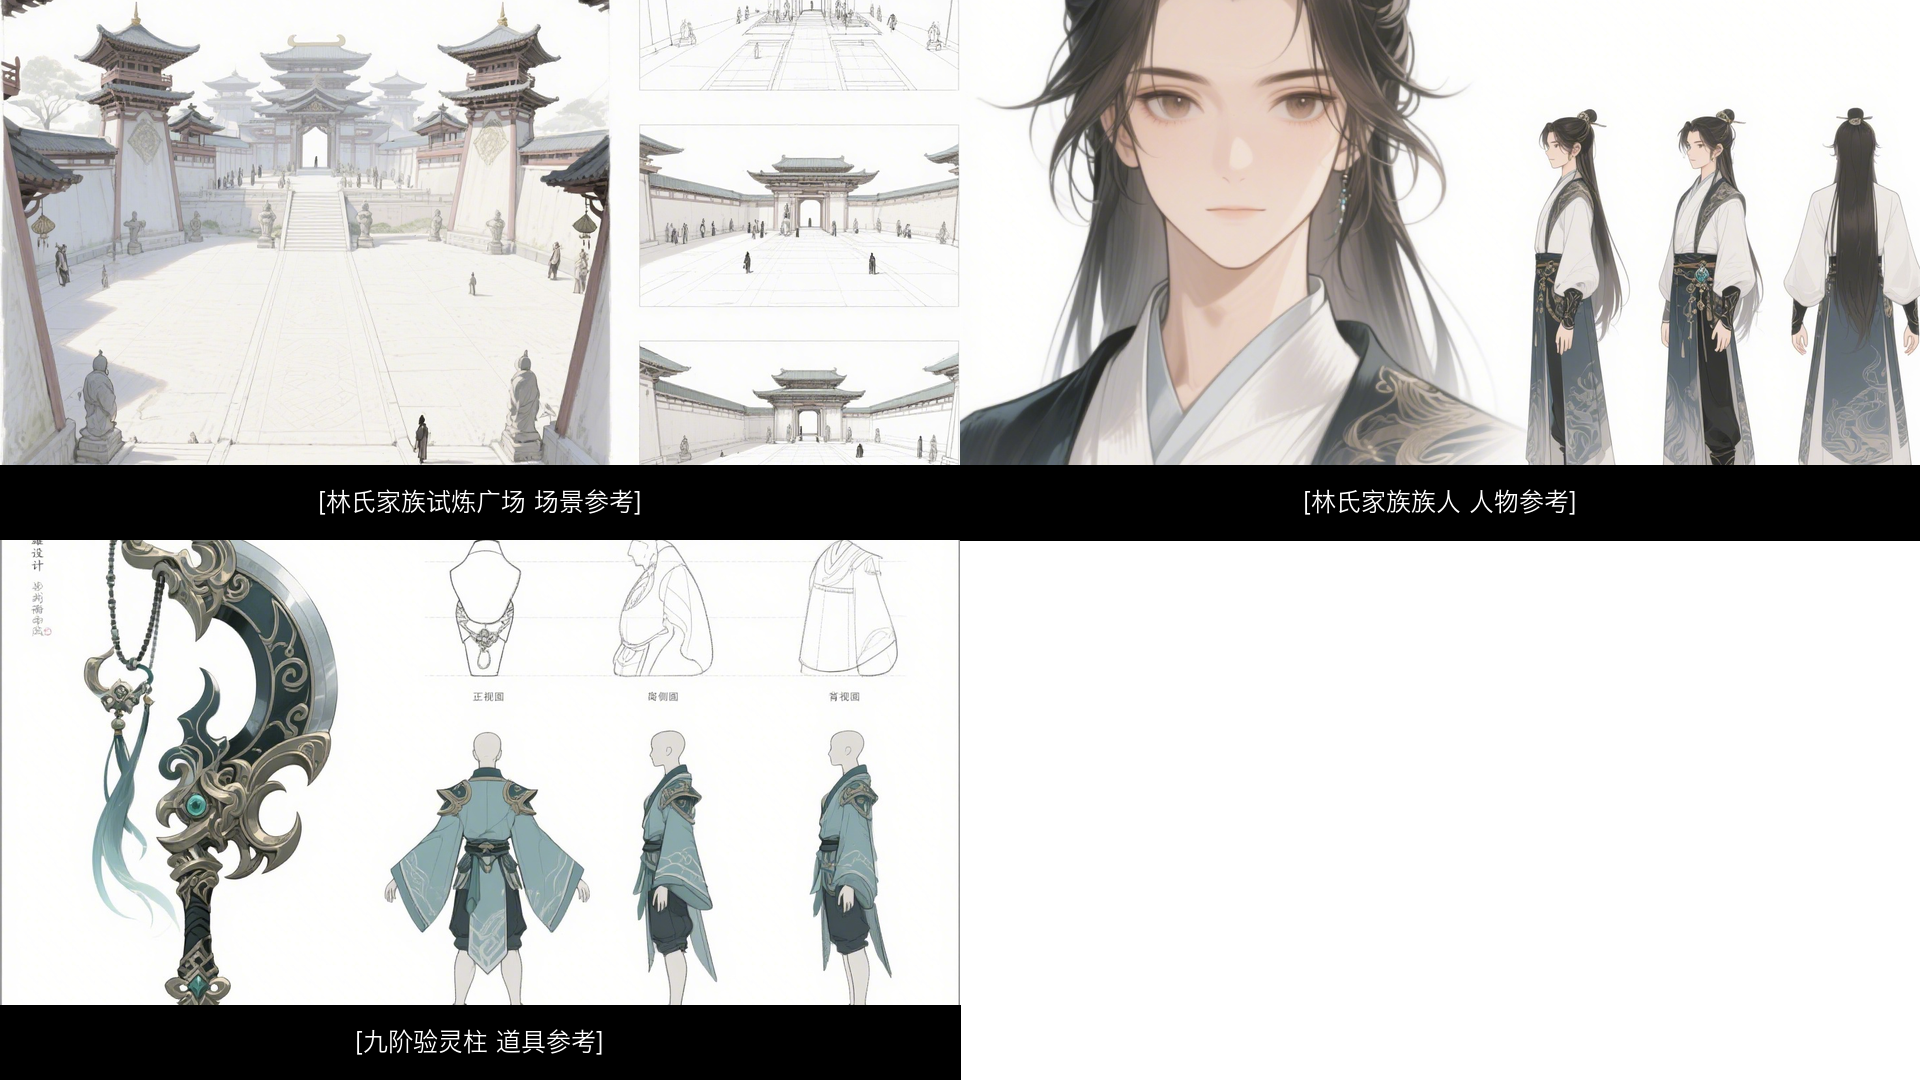
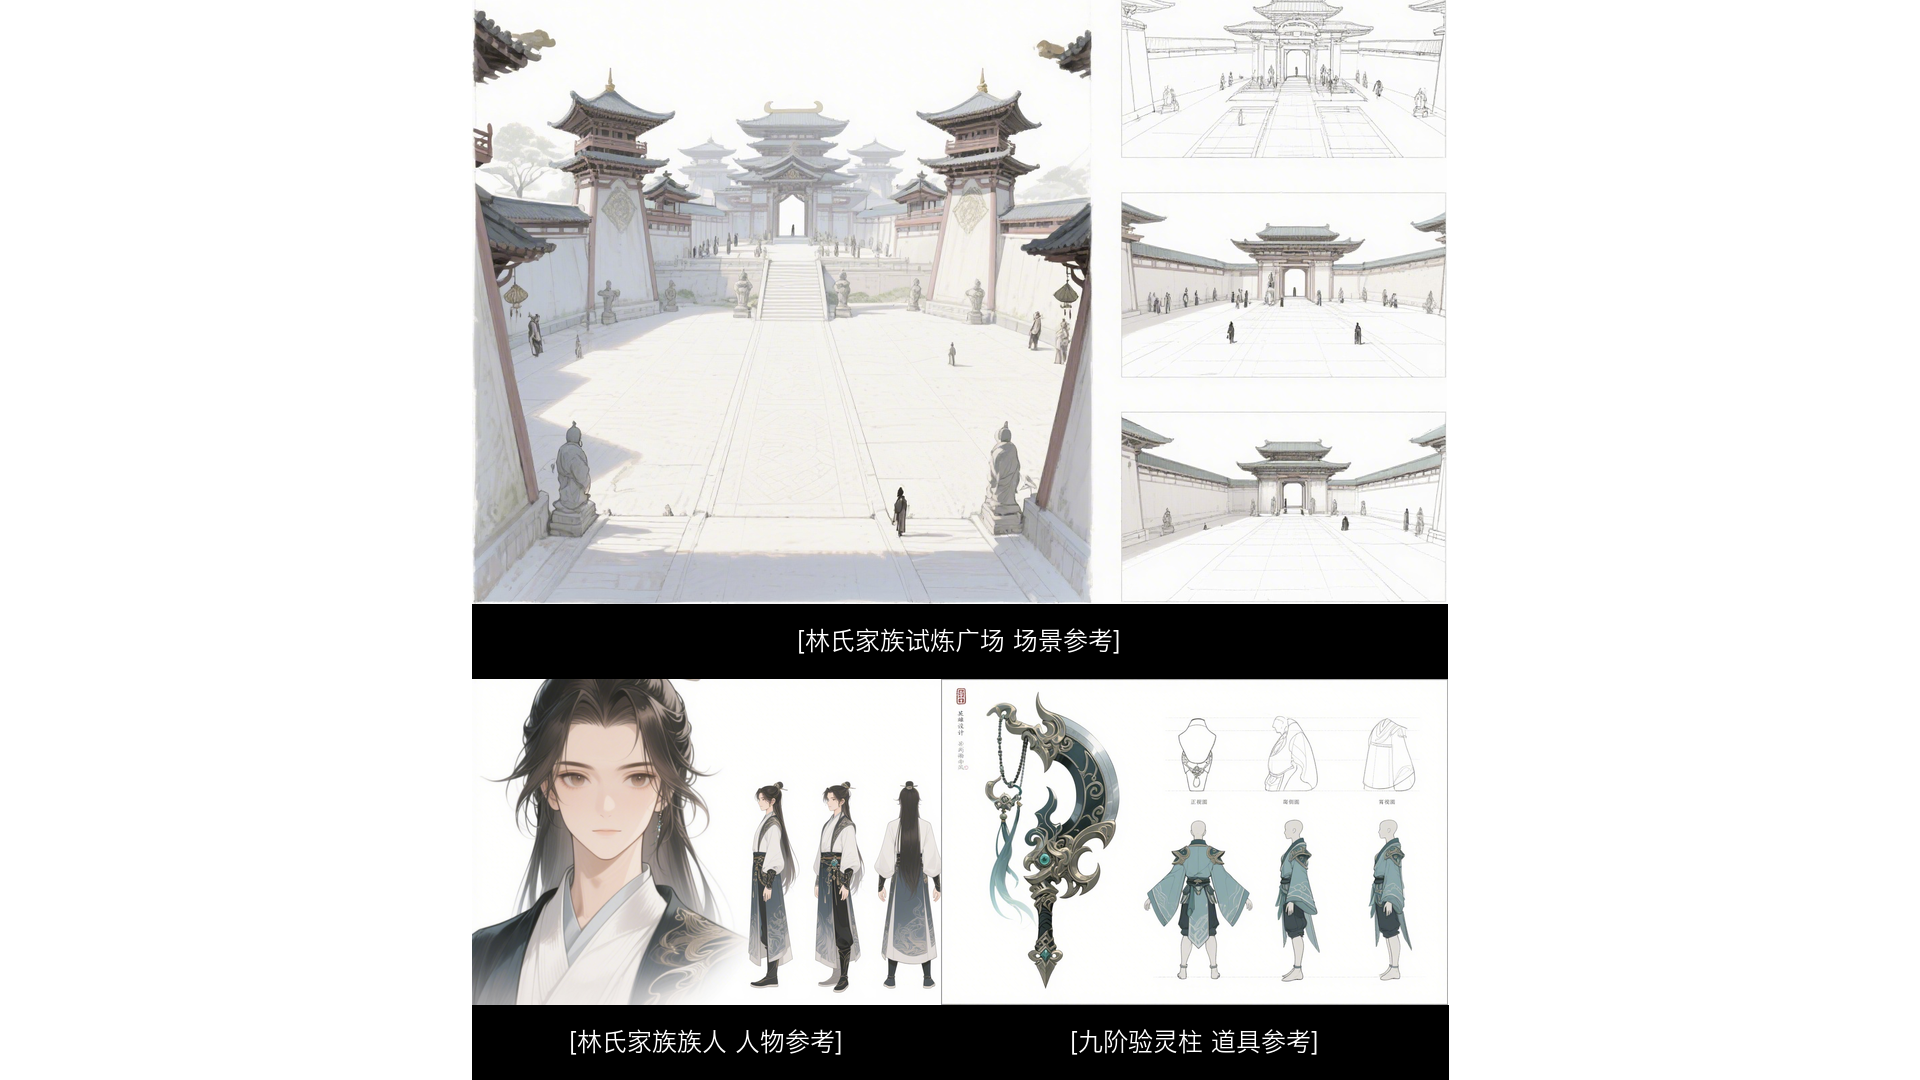
解决 资产图拼接的 过于扩充而显示不全问题

diff --git a/pipeline/shot_reference_boards.py b/pipeline/shot_reference_boards.py
@@ -28,7 +28,7 @@ LABEL_BAR_MAX_HEIGHT_PX = 104
 LABEL_SIDE_PADDING_PX = 24
 LABEL_FONT_MIN_SIZE = 18
 LABEL_FONT_DIVISOR = 3
-DUAL_ASSET_GAP_PX = 24
+DUAL_ASSET_GAP_PX = 0
 BORDER_ACTIVITY_STD_THRESHOLD = 14.0
 TRIM_BACKOFF_PX = 2
 MAX_VERTICAL_TRIM_RATIO = 0.12
@@ -134,48 +134,106 @@ def build_target_boxes(layout_template: str) -> list[dict[str, int]]:
     return boxes
 
 
-def build_dual_asset_boxes(ordered_assets: list[dict[str, str]]) -> list[dict[str, int]]:
-    if len(ordered_assets) != 2:
-        raise ValueError(f"Dual-asset layout expects exactly 2 assets, got {len(ordered_assets)}")
-
-    label_height = resolve_label_height(CANVAS_HEIGHT)
-    max_image_height = max(1, CANVAS_HEIGHT - label_height)
-    aspects: list[float] = []
-    for asset in ordered_assets:
-        trimmed_width, trimmed_height = load_trimmed_image(asset["source_image_path"]).size
-        aspects.append(trimmed_width / trimmed_height)
-
-    available_width = CANVAS_WIDTH - 2 * OUTER_PADDING_PX - DUAL_ASSET_GAP_PX
-    common_image_height = min(
-        max_image_height,
-        max(1, int(available_width / sum(aspects))),
+def resolve_adaptive_row_counts(layout_template: str, asset_count: int) -> list[int]:
+    if layout_template == "grid_1x1":
+        return [1]
+    if layout_template == "grid_2x1":
+        return [2]
+    if layout_template == "grid_2x2":
+        if asset_count == 3:
+            return [1, 2]
+        if asset_count == 4:
+            return [2, 2]
+    if layout_template == "grid_3x2":
+        if asset_count == 5:
+            return [2, 3]
+        if asset_count == 6:
+            return [3, 3]
+    raise ValueError(
+        f"Unsupported adaptive row layout for template {layout_template} with asset_count {asset_count}"
     )
-    widths = [max(1, int(round(aspect * common_image_height))) for aspect in aspects]
-    row_width = sum(widths) + DUAL_ASSET_GAP_PX
-    if row_width > CANVAS_WIDTH:
-        overflow = row_width - CANVAS_WIDTH
-        widths[-1] = max(1, widths[-1] - overflow)
-        row_width = sum(widths) + DUAL_ASSET_GAP_PX
 
-    box_height = common_image_height + label_height
-    start_x = max(0, (CANVAS_WIDTH - row_width) // 2)
-    start_y = max(0, (CANVAS_HEIGHT - box_height) // 2)
 
-    boxes: list[dict[str, int]] = []
-    current_x = start_x
-    for index, width in enumerate(widths, start=1):
-        boxes.append(
+def build_adaptive_layout_boxes(
+    ordered_assets: list[dict[str, str]],
+    *,
+    layout_template: str,
+) -> list[dict[str, int]]:
+    row_counts = resolve_adaptive_row_counts(layout_template, len(ordered_assets))
+    label_height = resolve_label_height(max(1, CANVAS_HEIGHT // len(row_counts)))
+    row_gap = DUAL_ASSET_GAP_PX
+    available_width = max(1, CANVAS_WIDTH - 2 * OUTER_PADDING_PX)
+    available_image_height = max(
+        1,
+        CANVAS_HEIGHT - 2 * OUTER_PADDING_PX - (len(row_counts) - 1) * row_gap - len(row_counts) * label_height,
+    )
+
+    cursor = 0
+    row_specs: list[dict[str, object]] = []
+    natural_image_height_sum = 0.0
+    for row_index, row_count in enumerate(row_counts, start=1):
+        row_assets = ordered_assets[cursor : cursor + row_count]
+        cursor += row_count
+        aspects: list[float] = []
+        for asset in row_assets:
+            trimmed_width, trimmed_height = load_trimmed_image(asset["source_image_path"]).size
+            aspects.append(trimmed_width / trimmed_height)
+        row_available_width = max(1, available_width - (row_count - 1) * row_gap)
+        natural_image_height = row_available_width / sum(aspects)
+        natural_image_height_sum += natural_image_height
+        row_specs.append(
             {
-                "slot_index": index,
-                "row": 1,
-                "col": index,
-                "x": current_x,
-                "y": start_y,
-                "width": width,
-                "height": box_height,
+                "row_index": row_index,
+                "row_count": row_count,
+                "aspects": aspects,
+                "natural_image_height": natural_image_height,
             }
         )
-        current_x += width + DUAL_ASSET_GAP_PX
+
+    scale = min(1.0, available_image_height / natural_image_height_sum) if natural_image_height_sum > 0 else 1.0
+
+    boxes: list[dict[str, int]] = []
+    realized_rows: list[dict[str, object]] = []
+    for row_spec in row_specs:
+        image_height = max(1, int(round(float(row_spec["natural_image_height"]) * scale)))
+        widths = [
+            max(1, int(round(aspect * image_height)))
+            for aspect in row_spec["aspects"]  # type: ignore[index]
+        ]
+        row_width = sum(widths) + (int(row_spec["row_count"]) - 1) * row_gap
+        realized_rows.append(
+            {
+                "row_index": row_spec["row_index"],
+                "widths": widths,
+                "image_height": image_height,
+                "row_width": row_width,
+            }
+        )
+
+    total_height = sum(int(row["image_height"]) + label_height for row in realized_rows) + row_gap * (
+        len(realized_rows) - 1
+    )
+    current_y = max(OUTER_PADDING_PX, (CANVAS_HEIGHT - total_height) // 2)
+    slot_index = 1
+    for row in realized_rows:
+        row_box_height = int(row["image_height"]) + label_height
+        current_x = max(OUTER_PADDING_PX, (CANVAS_WIDTH - int(row["row_width"])) // 2)
+        for col_index, width in enumerate(row["widths"], start=1):
+            boxes.append(
+                {
+                    "slot_index": slot_index,
+                    "row": int(row["row_index"]),
+                    "col": col_index,
+                    "x": current_x,
+                    "y": current_y,
+                    "width": width,
+                    "height": row_box_height,
+                    "label_height": label_height,
+                }
+            )
+            current_x += width + row_gap
+            slot_index += 1
+        current_y += row_box_height + row_gap
     return boxes
 
 
@@ -352,8 +410,8 @@ def resolve_label_height(box_height: int) -> int:
     )
 
 
-def split_slot_box(box: dict[str, int]) -> tuple[dict[str, int], dict[str, int]]:
-    label_height = resolve_label_height(int(box["height"]))
+def split_slot_box(box: dict[str, int], label_height: int | None = None) -> tuple[dict[str, int], dict[str, int]]:
+    label_height = label_height or resolve_label_height(int(box["height"]))
     image_height = max(1, int(box["height"]) - label_height)
     image_box = {
         "x": int(box["x"]),
@@ -408,12 +466,12 @@ def render_board_image(slots: list[dict[str, object]], output_path: Path) -> Non
     for slot in slots:
         image = load_trimmed_image(str(slot["source_image_path"]))
         box = slot["target_box"]
-        image_box, label_box = split_slot_box(box)
+        image_box, label_box = split_slot_box(box, int(slot["label_height"]) if "label_height" in slot else None)
         fit_mode = str(slot.get("fit_mode", "cover"))
-        if fit_mode == "contain":
+        if fit_mode in {"contain", "adaptive"}:
             resized = resize_contain(image, image_box["width"], image_box["height"])
             paste_x = image_box["x"] + (image_box["width"] - resized.width) // 2
-            paste_y = image_box["y"] + (image_box["height"] - resized.height)
+            paste_y = image_box["y"] + (image_box["height"] - resized.height) // 2
             canvas.paste(resized, (paste_x, paste_y))
         else:
             resized = resize_cover(image, image_box["width"], image_box["height"])
@@ -442,16 +500,11 @@ def generate_shot_reference_boards(*, storyboard_path: Path) -> ShotReferenceBoa
         ordered_assets = build_ordered_assets(shot, asset_image_map)
         asset_count = len(ordered_assets)
         layout_template = resolve_layout_template(asset_count)
-        target_boxes = (
-            build_dual_asset_boxes(ordered_assets)
-            if layout_template == "grid_2x1"
-            else build_target_boxes(layout_template)
-        )
+        target_boxes = build_adaptive_layout_boxes(ordered_assets, layout_template=layout_template)
         board_path = (artifacts.boards_dir / f"{shot.id}.png").resolve()
 
         render_slots_payload: list[dict[str, object]] = []
         slots_payload: list[dict[str, object]] = []
-        blank_slots: list[int] = []
         for box, asset in zip(target_boxes, ordered_assets, strict=False):
             render_slots_payload.append(
                 {
@@ -462,7 +515,8 @@ def generate_shot_reference_boards(*, storyboard_path: Path) -> ShotReferenceBoa
                     "asset_id": asset["asset_id"],
                     "source_image_path": asset["source_image_path"],
                     "label_text": asset["label_text"],
-                    "fit_mode": "contain" if layout_template == "grid_2x1" else "cover",
+                    "fit_mode": "adaptive",
+                    "label_height": box["label_height"],
                     "target_box": {
                         "x": box["x"],
                         "y": box["y"],
@@ -487,7 +541,8 @@ def generate_shot_reference_boards(*, storyboard_path: Path) -> ShotReferenceBoa
                     },
                 }
             )
-        blank_slots.extend(box["slot_index"] for box in target_boxes[len(ordered_assets) :])
+        expected_cells = LAYOUT_DIMENSIONS[layout_template][0] * LAYOUT_DIMENSIONS[layout_template][1]
+        blank_slots = list(range(asset_count + 1, expected_cells + 1))
 
         render_board_image(render_slots_payload, board_path)
 

diff --git a/memory-bank/progress.md b/memory-bank/progress.md
@@ -145,7 +145,7 @@ Last updated: 2026-03-15
 
 ## Current Phase
 
-Early workflow implementation.
+Workflow completion and interview-alignment cleanup.
 
 The project now has:
 
@@ -167,12 +167,10 @@ The project now has:
 
 ## Next Step
 
-- Run the first real intent-to-script sample from keywords / brief and review:
-  - `intent_packet.json`
-  - `story_blueprint.json`
-  - `generated_script.txt`
-  - `script_quality_report.json`
-- Then decide whether to add an automatic repair loop before asset extraction or keep the first version human-reviewed
+- Add a unified user-facing entrypoint that supports `script|storyboard` output selection.
+- Insert an explicit synopsis-confirmation gate before full-script generation in the intent-to-script path.
+- Replace the current generic AgentKit demo shell with a short-drama workflow wrapper suited to the interview brief.
+- Prepare an interview-facing README / demo flow / talk track around `run12`.
 
 ## Known Constraints
 
@@ -213,8 +211,17 @@ The project now has:
   - `06_storyboard/storyboard.json`
   - `07_shot_reference_boards/shot_reference_manifest.json`
   - `08_video_jobs/video_jobs.json`
-- Current `run12` blocker:
-  - `video_jobs.json` is assembled successfully, but jobs are still `blocked_missing_first_frame_url` because the new `run12` shot boards have not yet been published to a real public URL
+- Completed the first full intent-to-video continuation run under `runs/run12`:
+  - `09_shot_videos/shot_videos_manifest.json`
+  - `10_final/final_video.mp4`
+  - `10_final/final_video_manifest.json`
+- Reworked shot-board composition so asset completeness now takes priority over forced cell fill:
+  - `grid_1x1`, `grid_2x1`, `grid_2x2`, and `grid_3x2` now use adaptive row layouts
+  - all shot-board assets are rendered with full-image containment instead of default `cover` cropping
+  - three-asset boards now use a `1 + 2` row split, which preserves the full scene board while keeping the lower references readable
+  - regenerated `runs/run12/07_shot_reference_boards/*.png` with the new layout logic
+- Republished the regenerated `run12` shot boards into `static/runs/run12/...` and restored jsDelivr-style `board_public_url` values in `07_shot_reference_boards/shot_reference_manifest.json`.
+- Any future downstream reuse of the updated `run12` boards still requires committing and pushing the refreshed `static/runs/run12/...` files so the public CDN matches the local board images.
 - If the new intent-to-script node resolves the source input mode to `script`, it currently reuses the normalized source text instead of rewriting it.
 - The asset extraction node currently uses prompt-constrained JSON output plus local schema validation.
 - The style-bible node uses the same prompt-constrained JSON + local schema validation path.

diff --git a/memory-bank/architecture.md b/memory-bank/architecture.md
@@ -218,11 +218,14 @@ Current role:
 
 - Loads and validates `storyboard.json`
 - Resolves and validates the matching `asset_images_manifest.json`
+- Builds aspect-ratio-aware stitched boards with adaptive row layouts instead of fixed crop-first grid filling
+- Preserves full asset visibility as the first rule and only then maximizes board occupancy
+- Uses deterministic local label bars below each asset instead of overlaying labels on top of imagery
 - Selects the shot's scene asset plus visible character/prop assets in deterministic order
 - Chooses a fixed grid template from asset count
 - Trims uniform outer borders from raw asset reference images before placement
-- Uses an adaptive two-asset layout for `grid_2x1` boards so differing aspect ratios are shown completely before any attempt to maximize fill
-- Uses edge-to-edge grid cells plus cover-fit composition so each occupied slot fills its assigned area
+- Uses adaptive row splits across `grid_1x1`, `grid_2x1`, `grid_2x2`, and `grid_3x2`, including `1 + 2` packing for three-asset boards
+- Uses contain-fit rendering inside the computed slot boxes so the composed board never crops the source asset sheets
 - Reserves a dedicated bottom label area per occupied slot so labels do not occlude the rendered reference imagery
 - Renders a consistent local black label bar from clean text instead of reusing the padded labeled-card bitmap directly
 - Renders one PNG stitched board per shot using local image composition only
